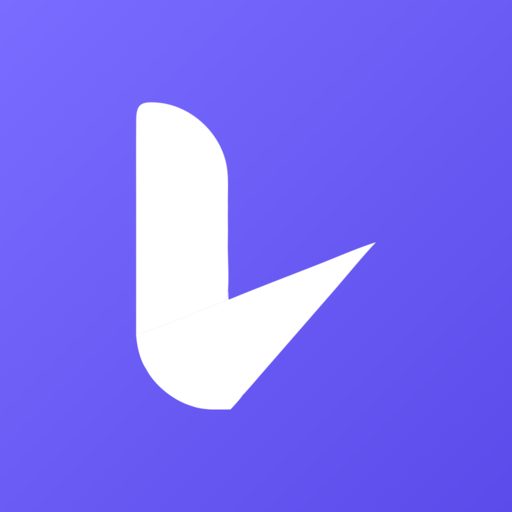
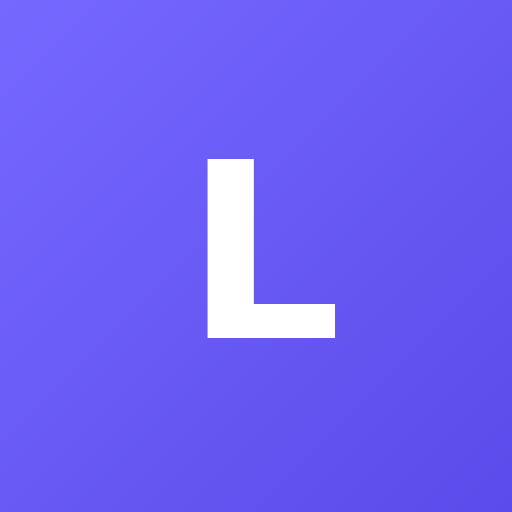
Add files via upload

Changed region(s): [[0.25, 0.1875, 0.75, 0.8125]]

diff --git a/index.html b/index.html
@@ -5,14 +5,14 @@
 <meta name="viewport" content="width=device-width,initial-scale=1,viewport-fit=cover">
 <meta name="theme-color" content="#6c5cff">
 <link rel="manifest" href="/manifest.webmanifest">
-<link rel="icon" href="/favicon.ico">
-<link rel="apple-touch-icon" href="/icons/apple-touch-icon.png">
+<link rel="icon" href="/favicon.ico?v=140">
+<link rel="apple-touch-icon" href="/icons/apple-touch-icon.png?v=140">
 <title>Lumen AI</title>
 <style>
 :root{--bg:#f4f5fb;--card:#fff;--text:#171827;--muted:#6d7185;--line:#e2e4ee;--primary:#6c5cff;--dark:#5547e8;--soft:#efedff;--danger:#d9372a;--danger-bg:#fff4f3;--shadow:0 10px 30px rgba(40,43,72,.07)}
 *{box-sizing:border-box}.sr-only{position:absolute;width:1px;height:1px;padding:0;margin:-1px;overflow:hidden;clip:rect(0,0,0,0);white-space:nowrap;border:0}body{margin:0;min-height:100vh;font-family:system-ui,-apple-system,BlinkMacSystemFont,"Segoe UI","Noto Sans KR",sans-serif;color:var(--text);background:var(--bg)}
 button,textarea{font:inherit}button{cursor:pointer}.app{width:min(100%,760px);margin:auto;padding:24px 16px 48px}
-.brand{display:flex;align-items:center;margin-bottom:18px}.brand-logo{display:block;width:178px;max-width:58vw;height:auto}.brand-text{margin-left:12px}.brand h1{font-size:20px;margin:0 0 2px}.brand p{font-size:13px;color:var(--muted);margin:0}
+.brand{display:flex;align-items:center;gap:12px;margin-bottom:18px}.logo{width:44px;height:44px;border-radius:14px;display:grid;place-items:center;color:#fff;font-weight:800;font-size:20px;background:linear-gradient(145deg,#7568ff,#5b4bea);box-shadow:0 8px 22px rgba(108,92,255,.25)}.brand h1{font-size:20px;margin:0 0 2px}.brand p{font-size:13px;color:var(--muted);margin:0}
 .card{background:var(--card);border:1px solid var(--line);border-radius:22px;box-shadow:var(--shadow);padding:18px;margin-top:16px}
 .section-title{font-size:16px;font-weight:800;margin:0 0 13px}.preset-row{display:flex;gap:8px;overflow-x:auto;padding-bottom:3px;scrollbar-width:none}.preset-row::-webkit-scrollbar{display:none}
 .preset{flex:0 0 auto;border:1px solid var(--line);background:#fff;color:#4d5165;min-height:40px;padding:0 15px;border-radius:999px;font-weight:700}
@@ -36,7 +36,7 @@ textarea:focus{border-color:#9f95ff;box-shadow:0 0 0 4px rgba(108,92,255,.1)}.co
 </head>
 <body>
 <main class="app">
-<header class="brand"><img class="brand-logo" src="/lumen-ai-logo.svg" alt="Lumen AI"><span class="sr-only">Lumen AI</span></header>
+<header class="brand"><div class="logo" aria-hidden="true">L</div><div><h1>Lumen AI</h1><p>한 줄로 시작하는 AI 글쓰기</p></div></header>
 
 <section id="inputCard" class="card">
 <h3 class="section-title">빠른 시작</h3>

diff --git a/public/index.html b/public/index.html
@@ -5,14 +5,14 @@
 <meta name="viewport" content="width=device-width,initial-scale=1,viewport-fit=cover">
 <meta name="theme-color" content="#6c5cff">
 <link rel="manifest" href="/manifest.webmanifest">
-<link rel="icon" href="/favicon.ico">
-<link rel="apple-touch-icon" href="/icons/apple-touch-icon.png">
+<link rel="icon" href="/favicon.ico?v=140">
+<link rel="apple-touch-icon" href="/icons/apple-touch-icon.png?v=140">
 <title>Lumen AI</title>
 <style>
 :root{--bg:#f4f5fb;--card:#fff;--text:#171827;--muted:#6d7185;--line:#e2e4ee;--primary:#6c5cff;--dark:#5547e8;--soft:#efedff;--danger:#d9372a;--danger-bg:#fff4f3;--shadow:0 10px 30px rgba(40,43,72,.07)}
 *{box-sizing:border-box}.sr-only{position:absolute;width:1px;height:1px;padding:0;margin:-1px;overflow:hidden;clip:rect(0,0,0,0);white-space:nowrap;border:0}body{margin:0;min-height:100vh;font-family:system-ui,-apple-system,BlinkMacSystemFont,"Segoe UI","Noto Sans KR",sans-serif;color:var(--text);background:var(--bg)}
 button,textarea{font:inherit}button{cursor:pointer}.app{width:min(100%,760px);margin:auto;padding:24px 16px 48px}
-.brand{display:flex;align-items:center;margin-bottom:18px}.brand-logo{display:block;width:178px;max-width:58vw;height:auto}.brand-text{margin-left:12px}.brand h1{font-size:20px;margin:0 0 2px}.brand p{font-size:13px;color:var(--muted);margin:0}
+.brand{display:flex;align-items:center;gap:12px;margin-bottom:18px}.logo{width:44px;height:44px;border-radius:14px;display:grid;place-items:center;color:#fff;font-weight:800;font-size:20px;background:linear-gradient(145deg,#7568ff,#5b4bea);box-shadow:0 8px 22px rgba(108,92,255,.25)}.brand h1{font-size:20px;margin:0 0 2px}.brand p{font-size:13px;color:var(--muted);margin:0}
 .card{background:var(--card);border:1px solid var(--line);border-radius:22px;box-shadow:var(--shadow);padding:18px;margin-top:16px}
 .section-title{font-size:16px;font-weight:800;margin:0 0 13px}.preset-row{display:flex;gap:8px;overflow-x:auto;padding-bottom:3px;scrollbar-width:none}.preset-row::-webkit-scrollbar{display:none}
 .preset{flex:0 0 auto;border:1px solid var(--line);background:#fff;color:#4d5165;min-height:40px;padding:0 15px;border-radius:999px;font-weight:700}
@@ -36,7 +36,7 @@ textarea:focus{border-color:#9f95ff;box-shadow:0 0 0 4px rgba(108,92,255,.1)}.co
 </head>
 <body>
 <main class="app">
-<header class="brand"><img class="brand-logo" src="/lumen-ai-logo.svg" alt="Lumen AI"><span class="sr-only">Lumen AI</span></header>
+<header class="brand"><div class="logo" aria-hidden="true">L</div><div><h1>Lumen AI</h1><p>한 줄로 시작하는 AI 글쓰기</p></div></header>
 
 <section id="inputCard" class="card">
 <h3 class="section-title">빠른 시작</h3>

diff --git a/public/sw.js b/public/sw.js
@@ -1,4 +1,4 @@
-const CACHE='lumen-ai-v1.3';
+const CACHE='lumen-ai-v140.3';
 const ASSETS=['/','/index.html','/manifest.webmanifest','/lumen-ai-logo.svg','/icons/icon-192.png','/icons/icon-512.png','/icons/apple-touch-icon.png','/favicon.ico'];
 self.addEventListener('install',event=>event.waitUntil(caches.open(CACHE).then(cache=>cache.addAll(ASSETS))));
 self.addEventListener('activate',event=>event.waitUntil(caches.keys().then(keys=>Promise.all(keys.filter(k=>k!==CACHE).map(k=>caches.delete(k))))));

diff --git a/sw.js b/sw.js
@@ -1,4 +1,4 @@
-const CACHE='lumen-ai-v1.3';
+const CACHE='lumen-ai-v140.3';
 const ASSETS=['/','/index.html','/manifest.webmanifest','/lumen-ai-logo.svg','/icons/icon-192.png','/icons/icon-512.png','/icons/apple-touch-icon.png','/favicon.ico'];
 self.addEventListener('install',event=>event.waitUntil(caches.open(CACHE).then(cache=>cache.addAll(ASSETS))));
 self.addEventListener('activate',event=>event.waitUntil(caches.keys().then(keys=>Promise.all(keys.filter(k=>k!==CACHE).map(k=>caches.delete(k))))));

diff --git a/README.md b/README.md
@@ -11,3 +11,9 @@
 ## 배포
 이 폴더의 전체 파일을 기존 GitHub 저장소에 덮어쓴 뒤 커밋·푸시하면 Vercel에서 자동 배포됩니다.
 기존 `OPENAI_API_KEY` 환경 변수는 그대로 유지됩니다.
+
+
+## v1.4 브랜드 수정
+- 초기 L 로고를 앱 헤더에 복원
+- 동일한 L 심볼을 PWA/앱 설치 아이콘, Apple Touch Icon, favicon에 적용
+- 외부 SVG 경로 의존을 제거하여 깨진 이미지 문제 방지
